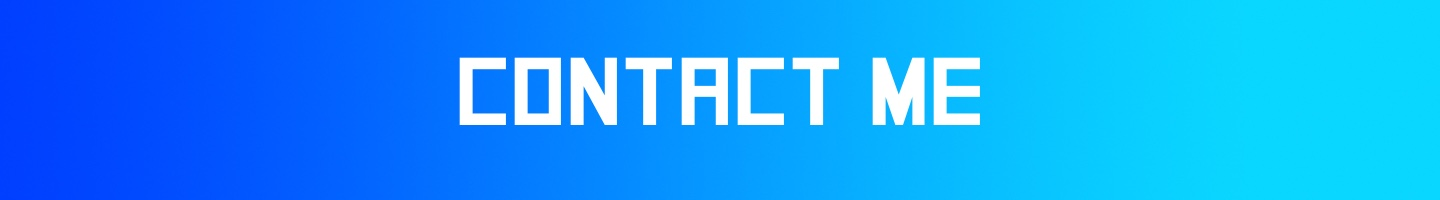
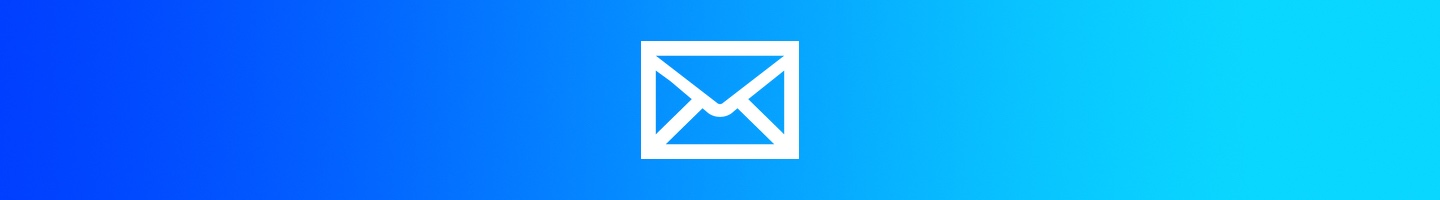
fifth commit

Changed region(s): [[0.3125, 0.18, 0.6875, 0.81]]

diff --git a/index.html b/index.html
@@ -1,5 +1,5 @@
 <!DOCTYPE html>
-<html lang="ja">
+<html lang="en">
 
 <head>
     <meta charset="UTF-8">
@@ -30,7 +30,7 @@
     </div>
 
     <div class="wrapper">
-
+        <p class="lastupdate">Last update 23/09/2020</p>
         <p class="title">My very first application has been released!</p>
         <p>
             The time has come. I have wanted to release my application on the AppStore since I was a JHS student. Now I released my very first game application for smartphones. But you would wonder why you chose a game? Because when I was a member of the high school's computer club, the same year club president told me that "Hey, Hyodo. You should make a 3d game for the school festival this year." Though I wanted to study Objective-C and Xcode at that time, I reluctantly accepted his order and started using Unity 4 and C#. Looking back, it was a great decision. I like making fun of my friends better than developing tools. "Legend Pilot" is my culmination of what I learned ever until now. Please download on the AppStore for free and enjoy the game.

diff --git a/contactme.html b/contactme.html
@@ -1,5 +1,5 @@
 <!DOCTYPE html>
-<html lang="ja">
+<html lang="en">
 <head>
     <meta charset="UTF-8">
     <meta name="viewport" content="width=device-width, initial-scale=1.0">
@@ -28,14 +28,10 @@
 
     <div class="wrapper">
 
-        <p class="title">Message form</p>
-        <p></p>
-        <form method="POST" action="hyodo.yuuki@icloud.com">
-            <div>Your name: <input type=text name="NAME" size=20></div>
-            <div>Message: <input type="text" name="MSG" size=20></div>
-            <input type="submit" value="Send">
-            <input type="reset"  value="Cancel">
-        </form>
+        <p class="title">Contact details</p>
+        <p>Email adress :  @gmail.com</p>
+        <a href=”mailto:hyodo.app.contact@gmail.com?subject=&body=Send_from_homepage”>Open your mail app.</a>
+
     </div>
 
     <footer>

diff --git a/style.css b/style.css
@@ -39,7 +39,7 @@ span{
 .top-bar a{
     background-color: rgb(19, 119, 121);
     color:white;
-    padding:5px 10px 5px 10px;
+    padding:1px 10px 1px 10px;
     display:block;
     text-decoration:none;
 }
@@ -60,12 +60,15 @@ span{
 }
 
 .wrapper{
-    min-height: 70vh;
+    min-height: 74vh;
     position: relative;/*←相対位置*/
     background-color: rgb(241, 254, 255);
     text-align: center;
 }
-
+.lastupdate{
+    font-size: 14px;
+    padding: 10px 0px 0px;
+}
 
 footer{
     background-color: rgb(60, 19, 142);
@@ -101,7 +104,7 @@ footer{
 }
 
 .title{
-    padding:25px 5px 5px 10px;
+    padding:15px 5px 5px 10px;
     font-size: 40px;
     font-weight: 400;
     color: rgb(28, 7, 91);

diff --git a/privacypolicy.html b/privacypolicy.html
@@ -1,5 +1,5 @@
 <!DOCTYPE html>
-<html lang="ja">
+<html lang="en">
 <head>
     <meta charset="UTF-8">
     <meta name="viewport" content="width=device-width, initial-scale=1.0">
